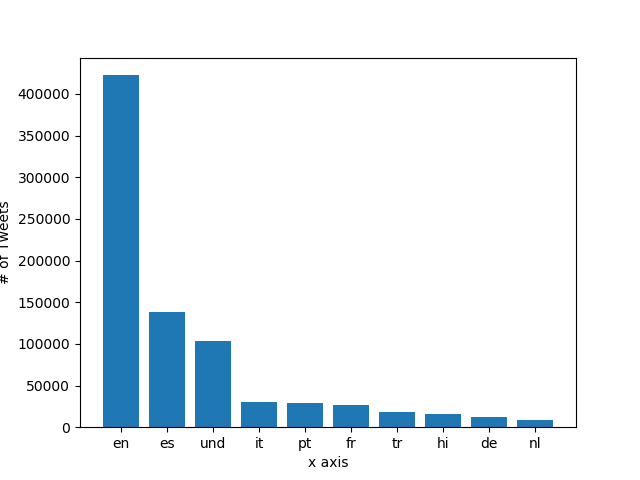
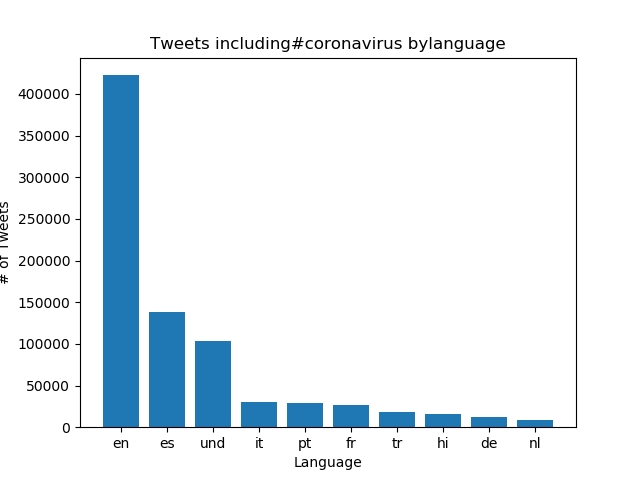
attempt 5

Changed region(s): [[0.2188, 0.0625, 0.7812, 0.125], [0.4688, 0.9375, 0.5625, 1.0]]

diff --git a/src/visualize.py b/src/visualize.py
@@ -43,9 +43,12 @@ fig = plt.bar(ind, values)
 plt.ylabel('# of Tweets')
 plt.xticks(ind, keys)
 title = 'Tweets including'
-title += f'{args.key} by'
+if "coronavirus" in args.key:
+    title += f'{args.key} by'
+else:
+    title += "the Korean coronavirus hashtag"
 if "country" in args.input_path:
-    title += 'country'
+    title += ' country'
     axis = 'Country'
 else:
     title += 'language'
